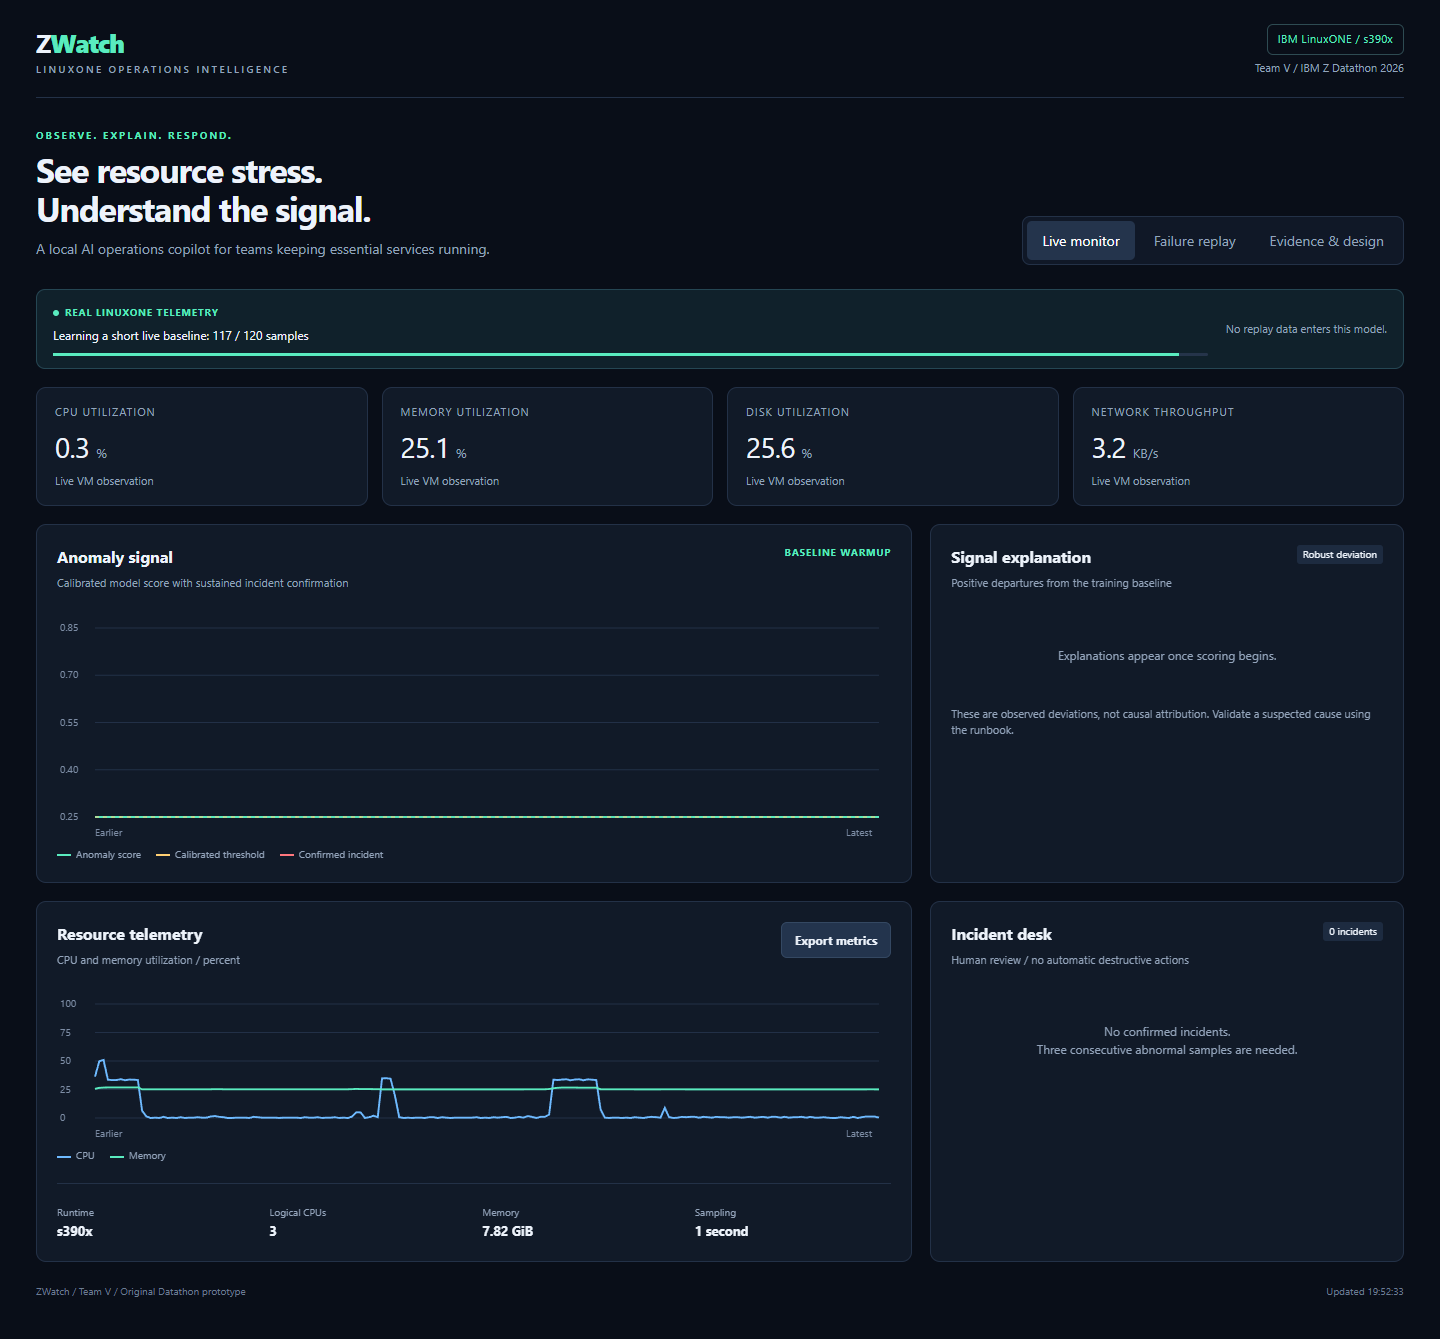
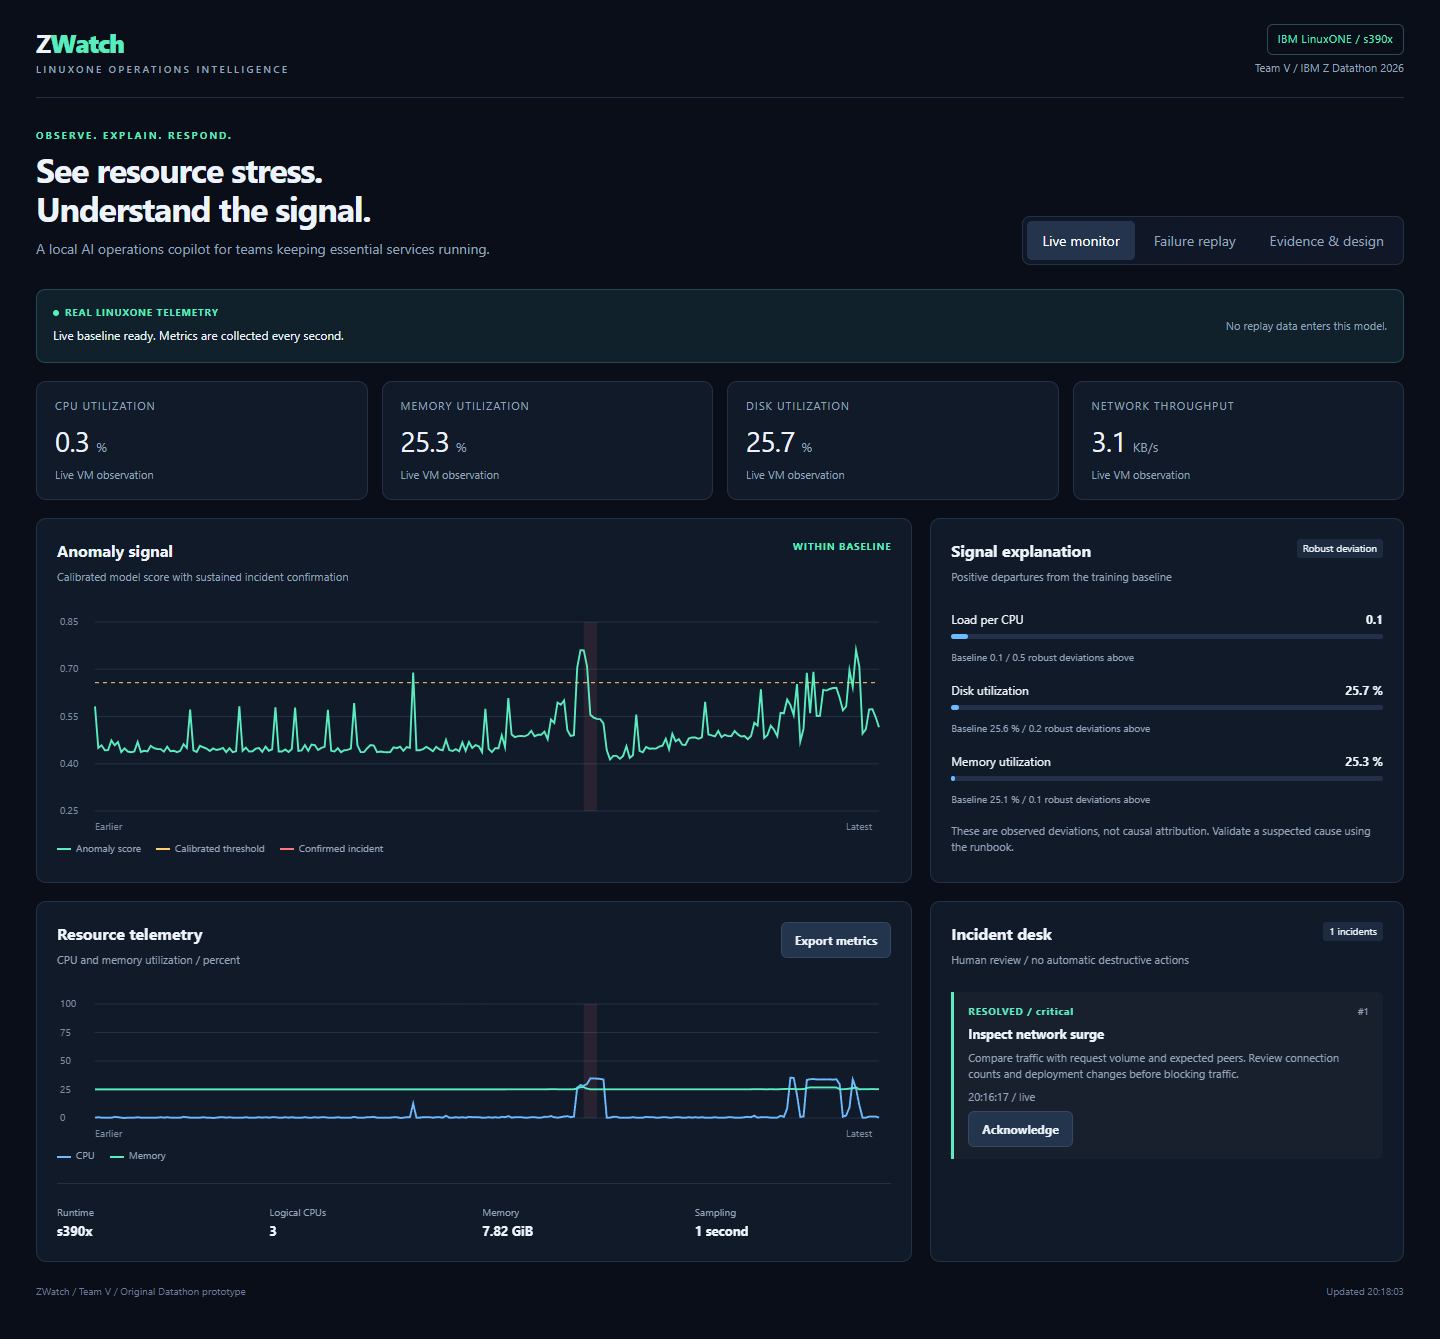
Add verified deployment evidence and final Team V submission materials

diff --git a/docs/submission-answers.md b/docs/submission-answers.md
@@ -38,7 +38,7 @@ https://github.com/Hemanthk101/Team-V-ZWatch-LinuxONE/blob/main/docs/Team-V-ZWat
 
 ## Link to all open-source resources used
 
-https://scikit-learn.org/ ; https://numpy.org/ ; https://github.com/giampaolo/psutil ; https://github.com/fastapi/fastapi ; https://github.com/encode/uvicorn ; https://www.python.org/ ; https://www.sqlite.org/ ; https://github.com/linuxone-community-cloud/jupyter-lab-ml ; https://github.com/heygen-com/hyperframes ; https://www.reportlab.com/opensource/ . Synthetic replay data is generated in this project; live data comes from the LinuxONE VM. AI assisted implementation and documentation.
+https://scikit-learn.org/ ; https://numpy.org/ ; https://github.com/giampaolo/psutil ; https://github.com/fastapi/fastapi ; https://github.com/encode/uvicorn ; https://www.python.org/ ; https://www.sqlite.org/ ; https://github.com/linuxone-community-cloud/jupyter-lab-ml ; https://github.com/heygen-com/hyperframes ; https://www.reportlab.com/opensource/ ; https://ffmpeg.org/ ; https://python-pillow.org/ ; https://gsap.com/ ; https://github.com/psf/black . Synthetic replay data is generated in this project; live data comes from the LinuxONE VM. AI assisted implementation and documentation.
 
 ## Any other document
 
